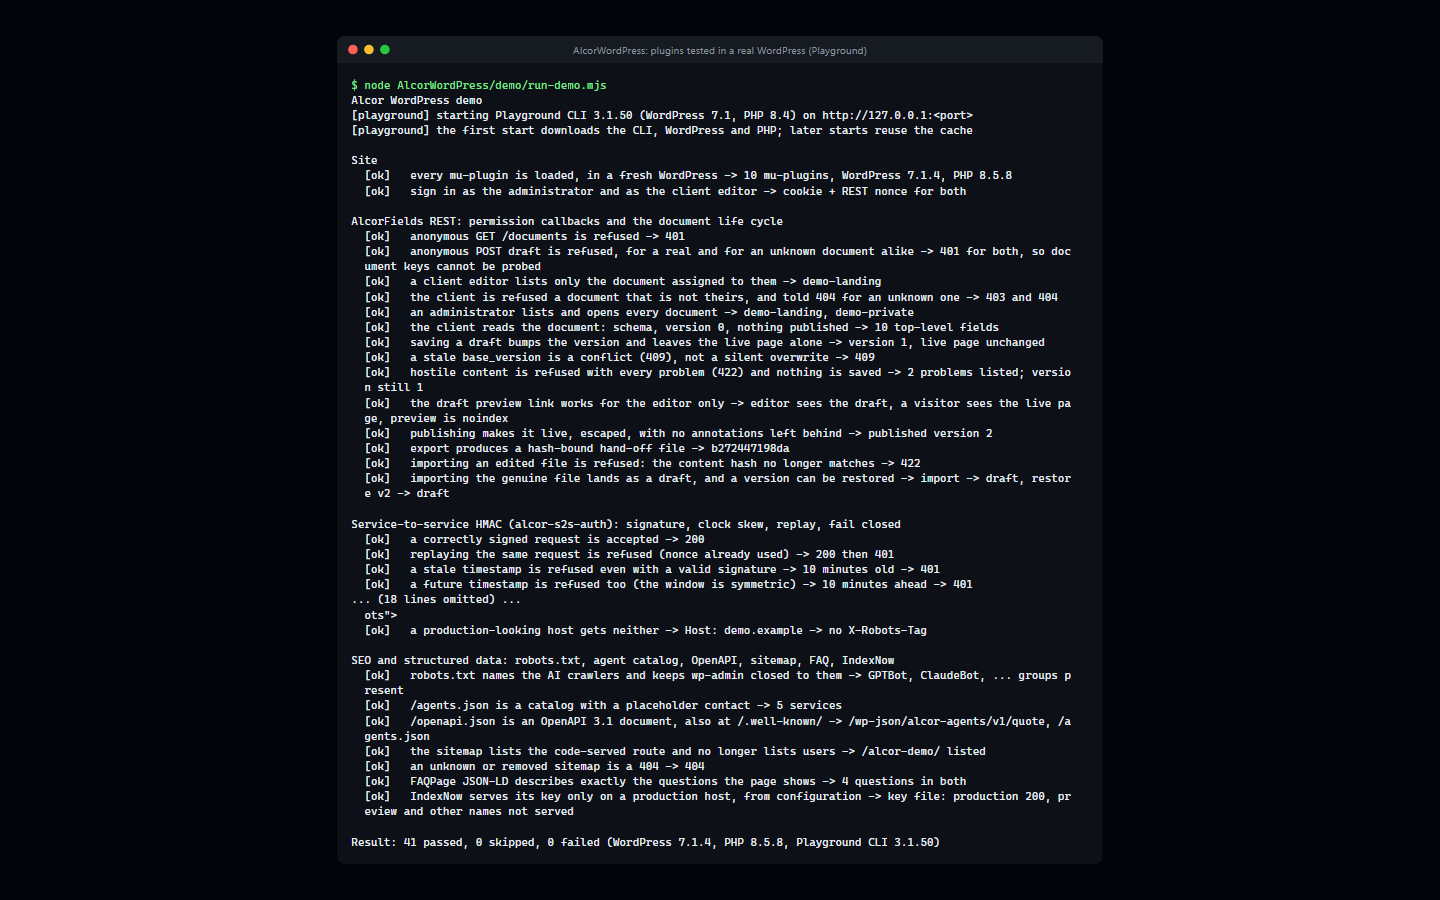
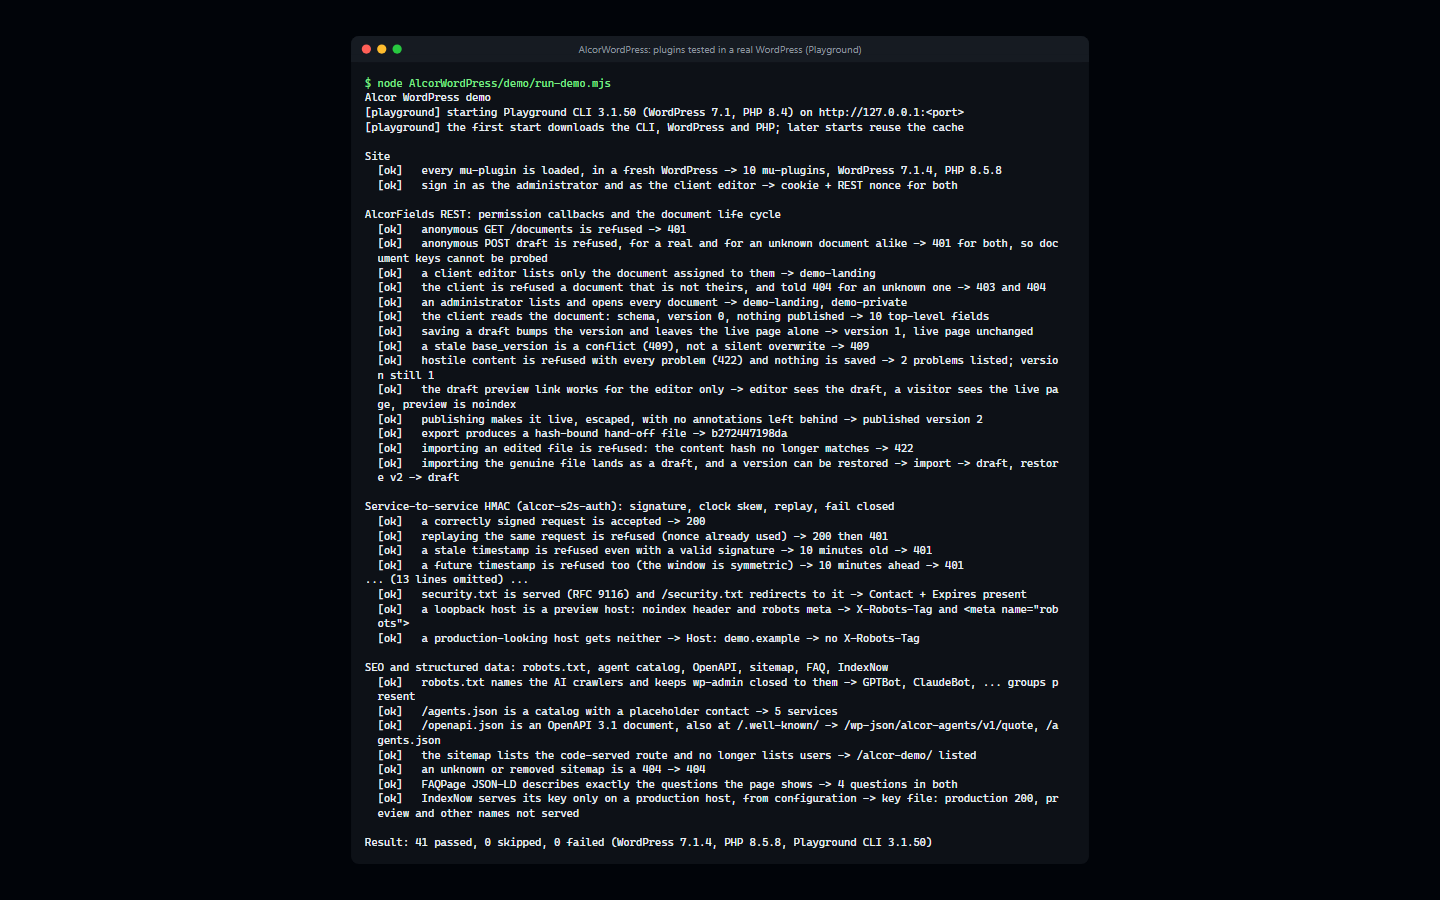
Render screenshots without cutting inside a wrapped line

diff --git a/scripts/render_terminal.py b/scripts/render_terminal.py
@@ -54,18 +54,19 @@ def capture(command: list[str], cwd: Path) -> str:
 
 def fit_lines(text: str, width: int, max_lines: int) -> list[str]:
     """Strip colors, expand tabs, wrap to ``width`` and keep head and tail if too long."""
+    raw_lines = ANSI.sub("", text).expandtabs(4).rstrip().splitlines()
+    # Elide whole source lines before wrapping, so the cut never lands inside a wrapped line.
+    if len(raw_lines) > max_lines:
+        head = max_lines * 2 // 3
+        tail = max_lines - head - 1
+        omitted = len(raw_lines) - head - tail
+        raw_lines = raw_lines[:head] + [f"... ({omitted} lines omitted) ..."] + raw_lines[-tail:]
     lines: list[str] = []
-    for raw in ANSI.sub("", text).expandtabs(4).rstrip().splitlines():
+    for raw in raw_lines:
         while len(raw) > width:
             lines.append(raw[:width])
             raw = "  " + raw[width:]
         lines.append(raw)
-    if len(lines) > max_lines:
-        head = max_lines * 2 // 3
-        tail = max_lines - head - 1
-        lines = (
-            lines[:head] + [f"... ({len(lines) - head - tail} lines omitted) ..."] + lines[-tail:]
-        )
     return lines
 
 
